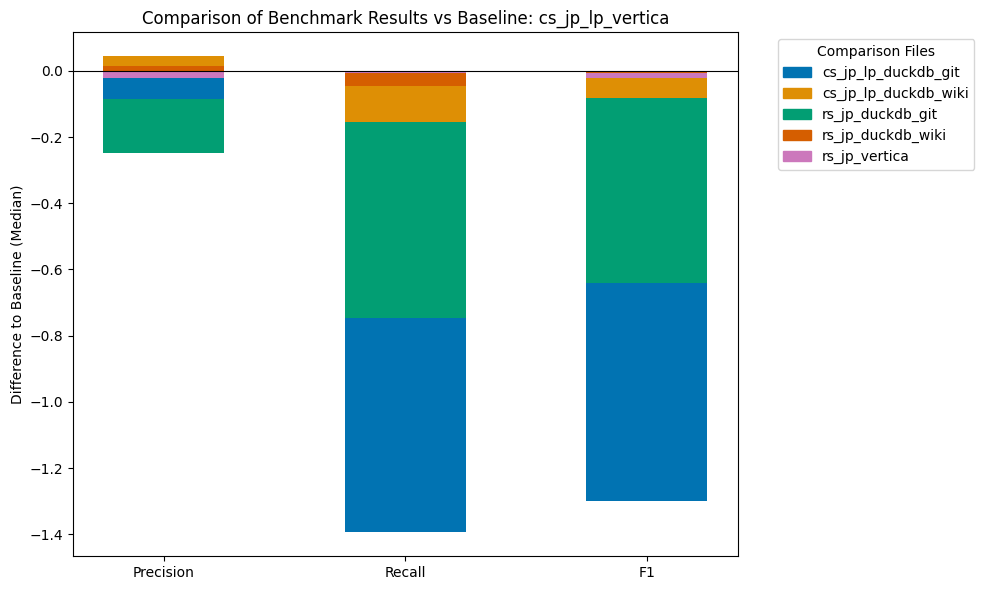
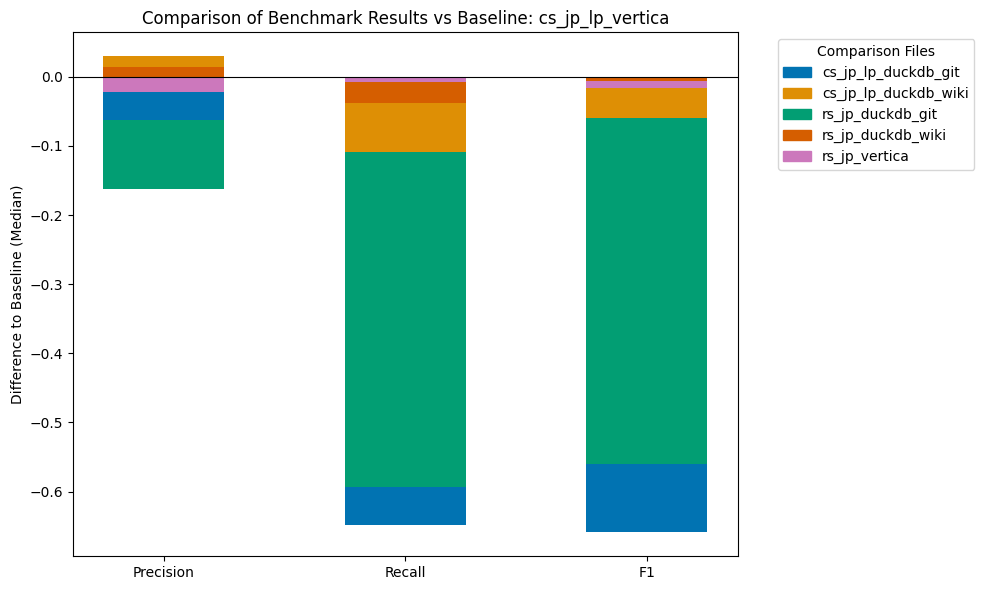
add new plots

diff --git a/evaluation/compare_metrics_to_baselines.py b/evaluation/compare_metrics_to_baselines.py
@@ -62,35 +62,29 @@ def plot_absolute_values(results: List[Dict], output_file: str = None):
     
     fig, ax = plt.subplots(figsize=(12, 6))
     
+    n_files = len(filenames)
     n_metrics = len(metrics)
-    indices = np.arange(n_metrics)
-    bar_width = 0.5
     
-    for i, metric in enumerate(metrics):
-        # Get values for this metric
-        metric_values = []
-        for r in results:
-            metric_values.append((r['file'], r[metric.lower()]))
-            
-        # Sort by value descending so larger bars are plotted first (behind smaller ones)
-        # This ensures smaller bars are visible in front
-        metric_values.sort(key=lambda x: x[1], reverse=True)
+    total_width = 0.8
+    bar_width = total_width / n_files
+    indices = np.arange(n_metrics)
+    
+    for i, file_data in enumerate(results):
+        filename = file_data['file']
+        values = [file_data['precision'], file_data['recall'], file_data['f1']]
         
-        for filename, val in metric_values:
-            # Plot all bars at the same x position (layered)
-            # zorder ensures correct layering if needed, but plotting order handles it too
-            ax.bar(indices[i], val, width=bar_width, label=filename if i == 0 else "", 
-                   color=file_colors[filename])
-
+        positions = indices - (total_width / 2) + (i * bar_width) + (bar_width / 2)
+        
+        ax.bar(positions, values, width=bar_width, label=filename, color=file_colors[filename])
+        
     ax.set_xticks(indices)
     ax.set_xticklabels(metrics)
     ax.set_ylabel("Score")
     ax.set_title("Absolute Metrics Comparison")
     ax.set_ylim(0, 1.05)
     
-    # Create legend (deduplicated)
-    handles = [plt.Rectangle((0,0),1,1, color=file_colors[f]) for f in filenames]
-    ax.legend(handles, filenames, title="Files", bbox_to_anchor=(1.05, 1), loc='upper left')
+    # Create legend
+    ax.legend(title="Files", bbox_to_anchor=(1.05, 1), loc='upper left')
     
     plt.tight_layout()
     
@@ -125,34 +119,11 @@ def plot_comparison(baseline_name: str, diffs: List[Dict], is_percentage: bool, 
         for d in diffs:
             metric_diffs.append((d['file'], d[metric]))
             
-        # Split into pos and neg
-        pos_diffs = [x for x in metric_diffs if x[1] >= 0]
-        neg_diffs = [x for x in metric_diffs if x[1] < 0]
-        
-        # Sort by absolute value ascending
-        pos_diffs.sort(key=lambda x: abs(x[1]))
-        neg_diffs.sort(key=lambda x: abs(x[1]))
-        
-        # Plot positives
-        # In stacked bar charts, we need to accumulate the bottom
-        # However, the user mentioned that the comparison might be wrong because of stacking.
-        # If we stack positive values, they add up visually.
-        # If we want to compare individual differences to baseline, we should probably NOT stack them
-        # but layer them like we did for absolute values, OR group them.
-        # The original code was stacking them: `bottom=current_bottom`.
-        # If multiple files have +0.1 diff, the second one starts at 0.1 and goes to 0.2.
-        # This makes the total height 0.2, but the individual bar is 0.1.
-        # If the user wants to see the difference for EACH file relative to baseline (0),
-        # they should all start from 0.
-        
-        # Let's change this to layered bars (all starting from 0) instead of stacked bars.
-        # We will use the same logic as absolute values: sort by absolute size descending so smaller ones are in front.
-        
         # Re-sort all diffs by absolute value descending
         metric_diffs.sort(key=lambda x: abs(x[1]), reverse=True)
         
         for filename, val in metric_diffs:
-            ax.bar(indices[i], val, width=bar_width, 
+            ax.bar(indices[i], val, width=bar_width,
                    color=file_colors[filename], label=filename if i == 0 else "")
 
     ax.set_xticks(indices)
